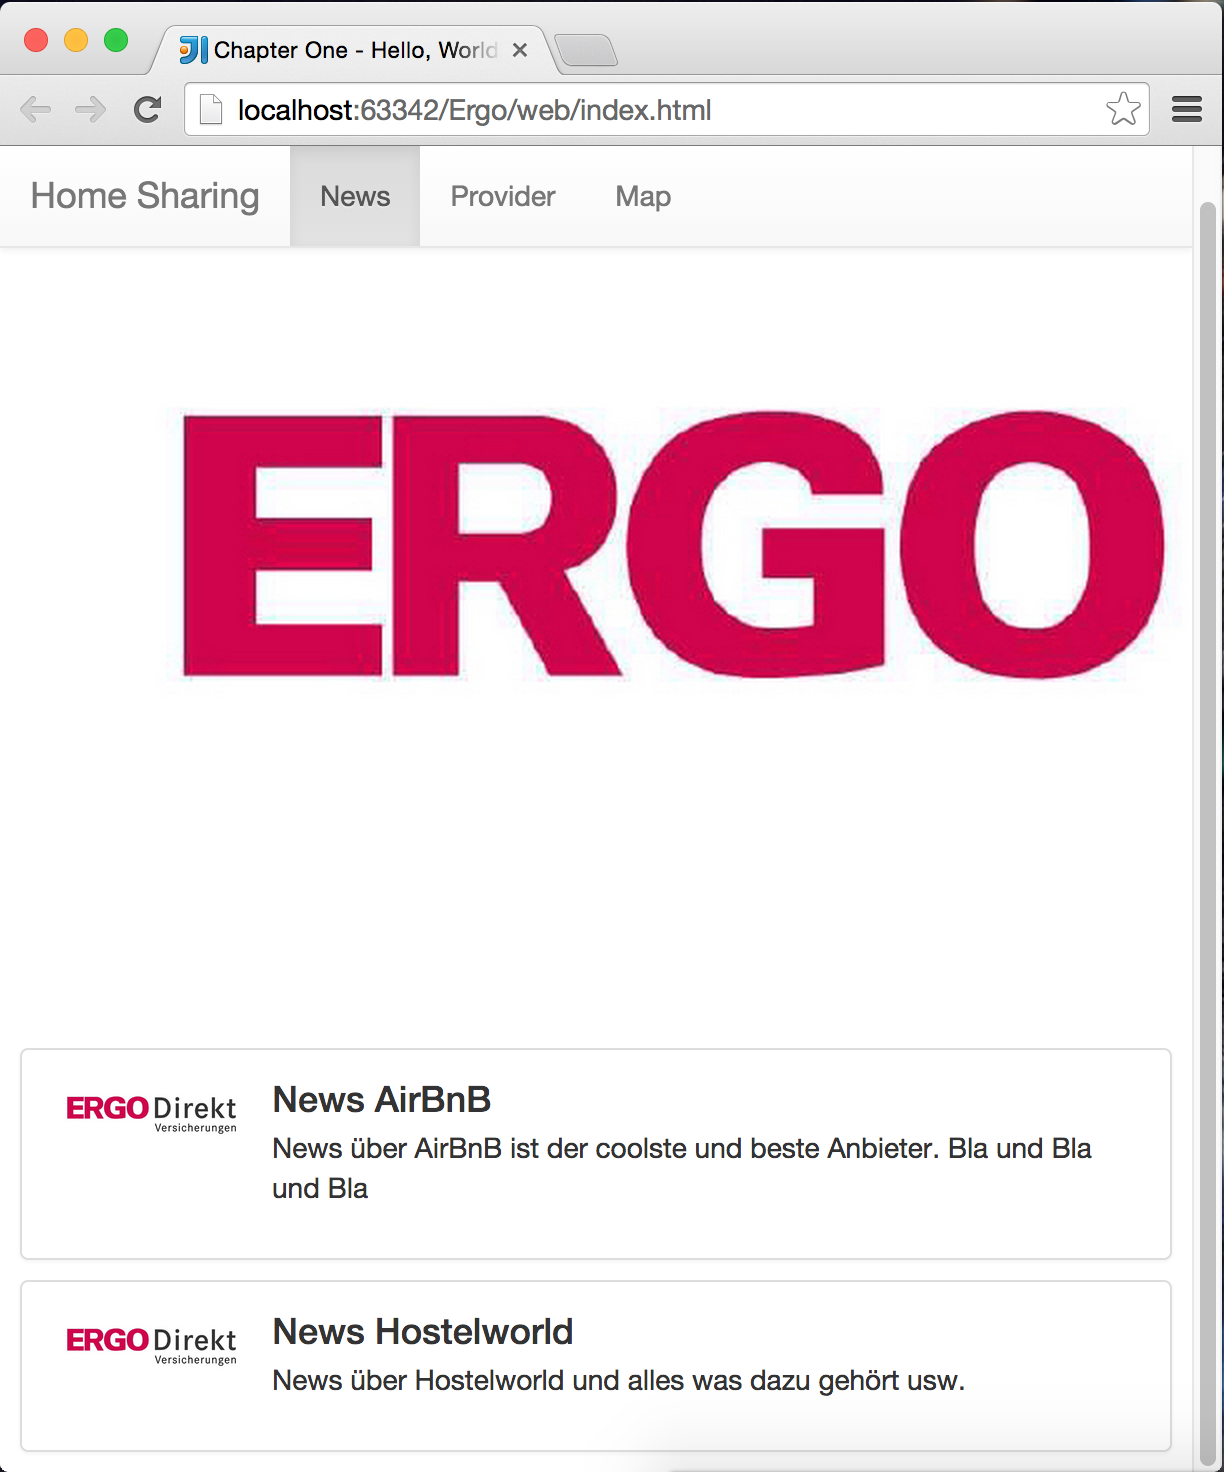
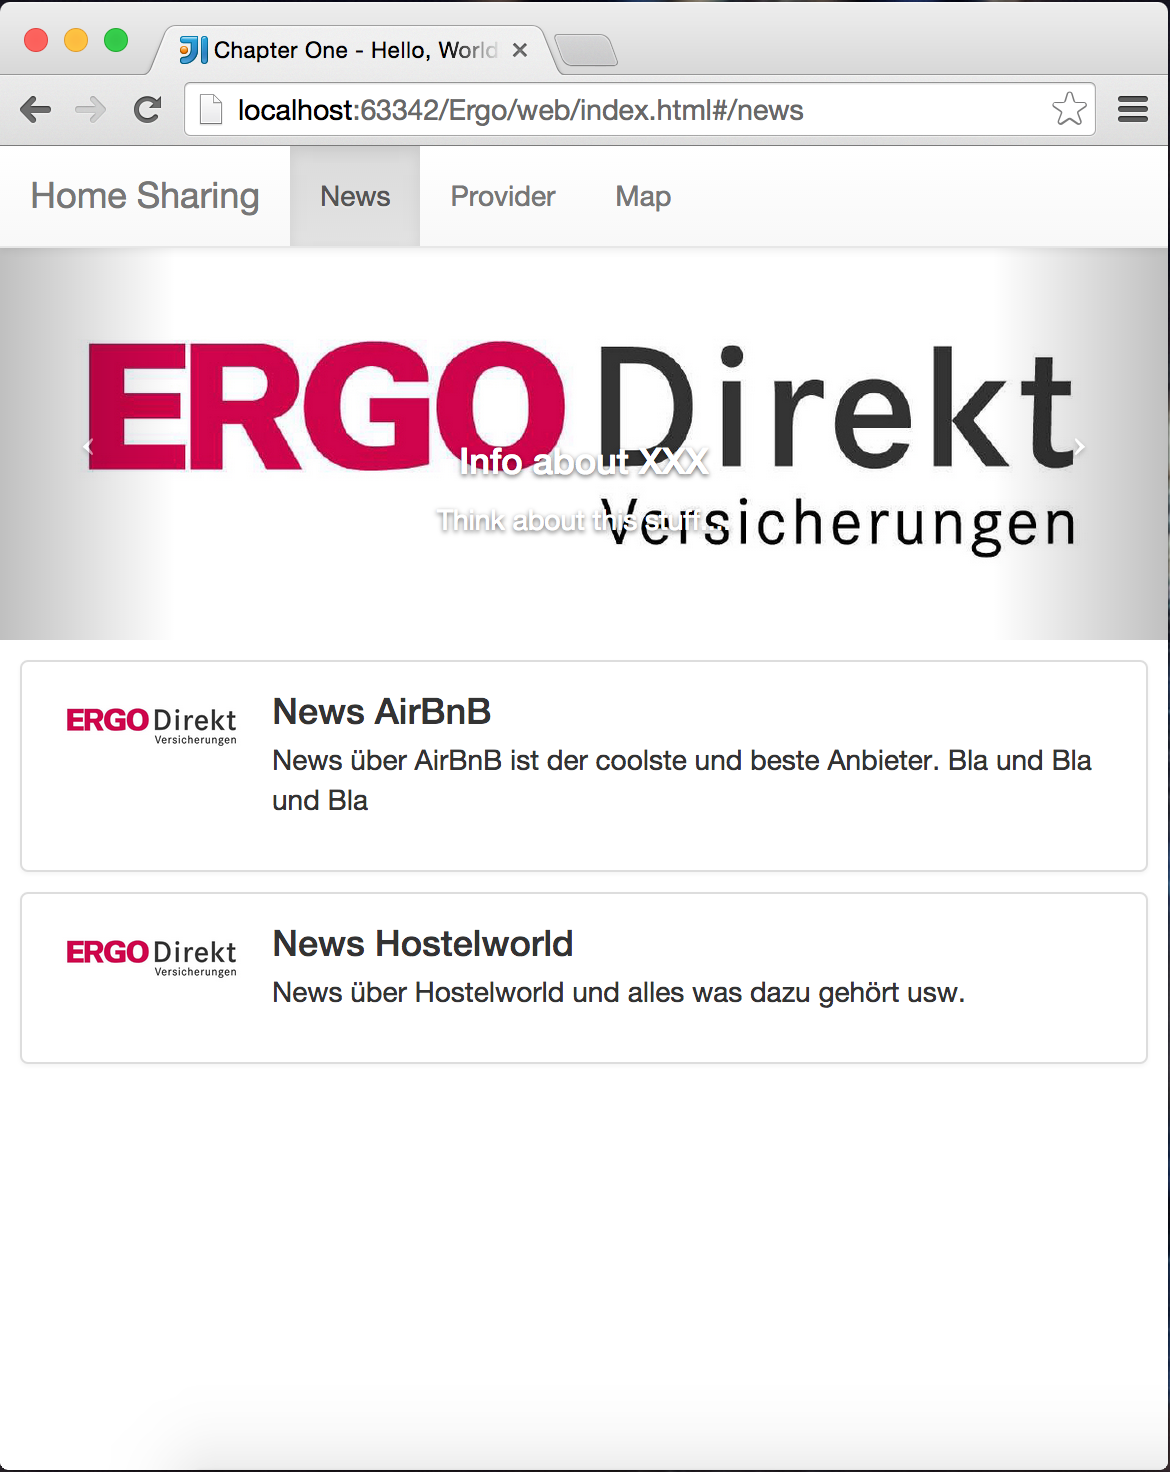
updated the news and the map

diff --git a/lib/component/map/map.dart b/lib/component/map/map.dart
@@ -19,7 +19,7 @@ class MapComponent implements ShadowRootAware {
   final Http _http;
   String _place = "Köln";
   var map;
-  var flats;
+  List<FlatModel> flats = new List<FlatModel>();
 
   /// Constructor EMthod for this class
   MapComponent(this._http);
@@ -71,30 +71,43 @@ class MapComponent implements ShadowRootAware {
     // get the flats from the json
     _http.get('flats.json').then((HttpResponse response) {
       flats =  response.data.map((d) => new FlatModel.fromJson(d)).toList();
+
+      // loop over all maps
+      for(FlatModel f in flats) {
+        window.console.log("flat: $f");
+        // get the coordinates of the location
+        final request = new GeocoderRequest()
+          ..address = f.location
+        ;
+
+        new Geocoder().geocode(request, (List<GeocoderResult> results, GeocoderStatus status) {
+          if (status == GeocoderStatus.OK) {
+            // set the marker
+            final marker = new Marker(new MarkerOptions()
+              ..map = map
+              ..position = results[0].geometry.location
+              ..title = f.name
+            );
+
+            // set info window
+            var buttons = '<a href="' + f.url + '" class="btn btn-danger" role="button">Without Insurance</a>' +
+            '<a href="#/provider/map/insurance" class="btn btn-success pull-right" role="button">With Insurance</a>';
+            final infowindow = new InfoWindow(new InfoWindowOptions()
+              ..content = f.content + buttons
+            );
+
+            // set click event
+            marker.onClick.listen((e) {
+              infowindow.open(map, marker);
+            });
+          }
+        });
+      }
     })
     .catchError((e) {
       print(e);
     });
 
-    // loop over all maps
-    for(FlatModel f in flats) {
-      // get the coordinates of the location
-      final request = new GeocoderRequest()
-        ..address = f.location
-      ;
-
-      new Geocoder().geocode(request, (List<GeocoderResult> results, GeocoderStatus status) {
-        if (status == GeocoderStatus.OK) {
-          // set the marker
-          final marker = new Marker(new MarkerOptions()
-            ..map = map
-            ..position = results[0].geometry.location
-          );
-        } else {
-          window.console.log("Can't set flat with id $f.id");
-        }
-      });
-    }
   }
 
 }

diff --git a/lib/component/news/news.dart b/lib/component/news/news.dart
@@ -6,49 +6,28 @@ import 'package:Ergo/model/newsModel.dart';
 @Component(
     selector: 'news',
     templateUrl: 'packages/Ergo/component/news/news.html',
-    exportExpressions: const ['myIntervalAsString', 'myInterval', 'slides', 'image', 'text', 'addSlide'],
     cssUrl: 'news.css',
     useShadowDom: false)
 class NewsComponent {
-  var news;
+  List<NewsModel> news = new List<NewsModel>();
+  List<NewsModel> topnews = new List<NewsModel>();
   final Http _http;
-
-
-// workaround until number conversion is supported by Angular
-  String _myInterval = '5000';
-  String get myIntervalAsString => _myInterval;
-  set myIntervalAsString(String newVal) {
-    _myInterval = newVal;
-    try {
-      myInterval = int.parse(newVal);
-    } catch(e){}
-  }
-  // workaround end
-
-  int myInterval = 5000;
-  List<Map<String,dynamic>> slides = [];
-
-  void addSlide() {
-    int newWidth = 600 + slides.length;
-    slides.add({
-        'image': 'http://placekitten.com/${newWidth}/300',
-        'text': ['More','Extra','Lots of','Surplus'][slides.length % 4] + ' ' +
-        ['Cats', 'Kittys', 'Felines', 'Cutes'][slides.length % 4]
-    });
-  }
 
   NewsComponent(this._http) {
     _http.get('news.json').then((HttpResponse response) {
-      news =  response.data.map((d) => new NewsModel.fromJson(d)).toList();
+      var nn =  response.data.map((d) => new NewsModel.fromJson(d)).toList();
+
+      for(NewsModel n in nn) {
+        if(n.isTopnews == 'true') {
+          topnews.add(n);
+        }
+        else {
+          news.add(n);
+        }
+      }
     })
     .catchError((e) {
       print(e);
     });
-
-    for (int i = 0; i < 4; i++) {
-      addSlide();
-    }
   }
-
-
 }

diff --git a/lib/component/news/news.html b/lib/component/news/news.html
@@ -1,24 +1,21 @@
-<carousel interval="5000" class="car">
-    <slide>
-        <img ng-src="img/ergo.jpg" style="margin:auto;">
-    </slide>
-    <slide>
-        <img ng-src="img/ergo.jpg" style="margin:auto;">
-    </slide>
-    <slide>
-        <img ng-src="img/ergo.jpg" style="margin:auto;">
-    </slide>
-    <slide>
-        <img ng-src="img/ergo.jpg" style="margin:auto;">
-    </slide>
-</carousel>
+<div class="car">
+    <carousel interval="5000" class="">
+        <slide ng-repeat="article in topnews">
+            <img ng-src="{{article.urlPic}}" style="margin:auto;">
+            <div class="carousel-caption">
+                <h4>{{article.title}}</h4>
+                <p>{{article.content}}</p>
+            </div>
+        </slide>
+    </carousel>
+</div>
 
 <a href="#/news/{{article.id}}" class="news-link" ng-repeat="article in news">
     <div class="panel panel-default news">
         <div class="panel-body">
             <div class="media">
                 <div class="media-left">
-                        <img class="media-object news-pic" src="img/ergo.jpg" alt="the piture">
+                        <img class="media-object news-pic" src="{{article.urlPic}}" alt="the piture">
                 </div>
                 <div class="media-body">
                     <h4 class="media-heading">{{article.title}}</h4>

diff --git a/lib/model/newsModel.dart b/lib/model/newsModel.dart
@@ -5,8 +5,9 @@ class NewsModel {
   String title;
   String content;
   String urlPic;
+  String isTopnews;
 
-  NewsModel(this.id, this.title, this.content, this.urlPic);
+  NewsModel(this.id, this.title, this.content, this.urlPic, this.isTopnews);
 
 
   // create a json from this object
@@ -14,10 +15,11 @@ class NewsModel {
       "id": id,
       "title": title,
       "content": content,
-      "urlPic": urlPic
+      "urlPic": urlPic,
+      "isTopnews": isTopnews
   };
 
   // generate a object from json
   NewsModel.fromJson(Map<String, dynamic> json): this(json['id'], json['title'], json['content'],
-  json['urlPic']);
+  json['urlPic'], json['isTopnews']);
 }

diff --git a/lib/model/flatModel.dart b/lib/model/flatModel.dart
@@ -15,7 +15,7 @@ class FlatModel {
       "id": id,
       "name": name,
       "content": content,
-      "urlPic": url,
+      "url": url,
       "location": location
   };
 
